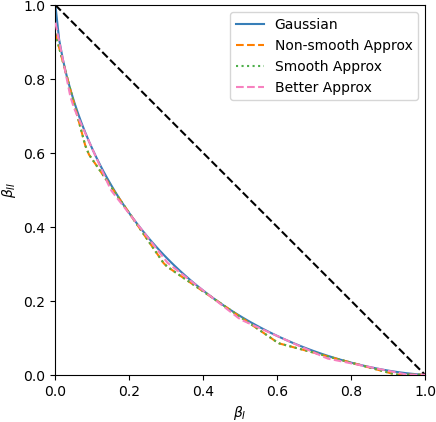
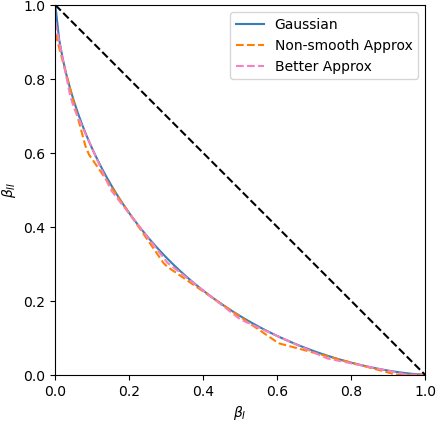
plot for approx from above/below + 2 DP

diff --git a/src/main.py b/src/main.py
@@ -527,25 +527,88 @@ def smooth_vs_nonsmooth_below_2dp_approx_gaussian(mu, title):
         save_to=png(title)
     )
 
+def two_dp_constraints():
+    eps_1 = 1.2
+    delta_1 = 0.0
+    eps_2 = 0.6
+    delta_2 = 0.15
+    f1 = SingleEpsDeltaTradeoff(eps_1, delta_1)
+    f2 = SingleEpsDeltaTradeoff(eps_2, delta_2)
+    title = "two_dp_constraints"
+
+    plot_multiple_functions([f1, f2],
+                                            [
+                                             f"$({eps_1},{delta_1})$-DP",
+                                             f"$({eps_2},{delta_2})$-DP",
+                                             ],
+                            [
+                                "solid",
+                                "solid",
+                            ],
+                            save_to=png(title)
+                            )
+
+def gaussian_n_dp_approx():
+    """
+    Compare n-DP approximations of GDP from below.
+    """
+    mu = 1.
+    n = 2
+    gaussian = GaussianTradeoff(mu)
+    below_approx = multi_dp_approx_below(gaussian, n)
+    above_approx = multi_dp_approx_above(gaussian, n)
+
+    eps_below = below_approx.get_eps_list()
+    delta_below = below_approx.get_delta_list()
+
+    eps_above = above_approx.get_eps_list()
+    delta_above = above_approx.get_delta_list()
+
+    f_below = [SingleEpsDeltaTradeoff(eps,delta) for eps, delta in zip(eps_below, delta_below)]
+    f_above = [SingleEpsDeltaTradeoff(eps, delta) for eps,delta in zip(eps_above, delta_above)]
+
+    f_arr = f_below + f_above + [gaussian]
+    colors = [COLOR_3] * len(f_below) + [COLOR_2] * len(f_above) + [COLOR_1]
+    linestyles = ["dashed"] * len(f_below) + ["dashed"] * len(f_above) + ["solid"]
+    title = f"gaussian_{n}_dp_approx"
+
+
+    plot_multiple_functions(
+        f_arr = f_arr,
+        colors = colors,
+        linestyles = linestyles,
+        save_to=png(title)
+    )
+
+    plot_multiple_functions(
+        f_arr = [gaussian, below_approx, above_approx],
+        labels= ["1-GDP", f"{n}-DP approx below", f"{n}-DP approx above"],
+        colors = [COLOR_1, COLOR_3, COLOR_2],
+        linestyles = ["solid", "dashed", "dashed"],
+        save_to=png(title + "_maxed")
+    )
+
 if __name__ == "__main__":
-    heterogeneous_comparison(eps_1=0.6,eps_2=0.4,x=3,y=2,delta_slack_ls=[0.001], title="heterogeneous_comparison")
-    mixture_example(alpha_1 = 0.5, eps_1 = 1.3, delta_1 = 0.0, eps_2 = 0.5, delta_2 = 0.2, title="mixture_example")
-    gaussian_tradeoff_approx(mu=1, title="gaussian_approx")
-    gaussian_compos_approx(k=20, mu=0.05, title="gaussian_compos_approx")
-    gaussian_compos_approx(k=3, mu=1, title="gaussian_compos_approx_2")
-    gaussian_compos_approx_two_compos(k1=10, k2=3, mu=1, title="gaussian_2_compos")
-    gaussian_tradeoff_and_compos_approx(k=3, mu=1, title="gaussian_tradeoff_and_compos_approx")
-    main_theorem_comparison(eps_1 = 1.2, delta_1 = 0.0, eps_2 = 0.6, delta_2 = 0.2, k = 3, title="theorem_1_comparison")
-    main_theorem_example(eps_1 = 1.2, delta_1 = 0.0, eps_2 = 0.6, delta_2 = 0.2, k_ls = [2, 3, 10, 20],
-                         title="theorem_1_example")
-    main_theorem_example(eps_1 = 0.3, delta_1 = 0.0, eps_2 = 0.15, delta_2 = 0.02, k_ls = [2, 3, 10, 20],
-                         title="theorem_1_example_small_region")
-    main_theorem_comparison_two_ks(eps_1 = 1.2, delta_1 = 0.0, eps_2 = 0.6, delta_2 = 0.2,
-                                   k1=3, k2=10, title="theorem_1_comparison_two_ks")
-    main_theorem_comparison_two_ks(eps_1 = 0.3, delta_1 = 0.0, eps_2 = 0.15, delta_2 = 0.02, k1=3, k2=20,
-                                  title="theorem_1_comparison_two_ks_small_region")
-    gaussian_compos_approx_tradeoff_and_two_compos(k1=3, k2=10, mu=1, title="gaussian_tradeoff_and_2_compos")
-    gaussian_compos_approx_tradeoff_and_two_compos(k1=3, k2=10, mu=0.05, title="gaussian_tradeoff_and_2_compos_small")
-    gaussian_tradeoff_and_compos_approx(mu=0.05, k=3, title="gaussian_tradeoff_and_compos_approx_small_single_reg")
-    smooth_vs_nonsmooth_above_2dp_approx_gaussian(mu=1, title="smooth_vs_nonsmooth_2dp_approx_gaussian_above")
-    smooth_vs_nonsmooth_below_2dp_approx_gaussian(mu=1, title="smooth_vs_nonsmooth_2dp_approx_gaussian_below")
+    # heterogeneous_comparison(eps_1=0.6,eps_2=0.4,x=3,y=2,delta_slack_ls=[0.001], title="heterogeneous_comparison")
+    # mixture_example(alpha_1 = 0.5, eps_1 = 1.3, delta_1 = 0.0, eps_2 = 0.5, delta_2 = 0.2, title="mixture_example")
+    # gaussian_tradeoff_approx(mu=1, title="gaussian_approx")
+    # gaussian_compos_approx(k=20, mu=0.05, title="gaussian_compos_approx")
+    # gaussian_compos_approx(k=3, mu=1, title="gaussian_compos_approx_2")
+    # gaussian_compos_approx_two_compos(k1=10, k2=3, mu=1, title="gaussian_2_compos")
+    # gaussian_tradeoff_and_compos_approx(k=3, mu=1, title="gaussian_tradeoff_and_compos_approx")
+    # main_theorem_comparison(eps_1 = 1.2, delta_1 = 0.0, eps_2 = 0.6, delta_2 = 0.2, k = 3, title="theorem_1_comparison")
+    # main_theorem_example(eps_1 = 1.2, delta_1 = 0.0, eps_2 = 0.6, delta_2 = 0.2, k_ls = [2, 3, 10, 20],
+    #                      title="theorem_1_example")
+    # main_theorem_example(eps_1 = 0.3, delta_1 = 0.0, eps_2 = 0.15, delta_2 = 0.02, k_ls = [2, 3, 10, 20],
+    #                      title="theorem_1_example_small_region")
+    # main_theorem_comparison_two_ks(eps_1 = 1.2, delta_1 = 0.0, eps_2 = 0.6, delta_2 = 0.2,
+    #                                k1=3, k2=10, title="theorem_1_comparison_two_ks")
+    # main_theorem_comparison_two_ks(eps_1 = 0.3, delta_1 = 0.0, eps_2 = 0.15, delta_2 = 0.02, k1=3, k2=20,
+    #                               title="theorem_1_comparison_two_ks_small_region")
+    # gaussian_compos_approx_tradeoff_and_two_compos(k1=3, k2=10, mu=1, title="gaussian_tradeoff_and_2_compos")
+    # gaussian_compos_approx_tradeoff_and_two_compos(k1=3, k2=10, mu=0.05, title="gaussian_tradeoff_and_2_compos_small")
+    # gaussian_tradeoff_and_compos_approx(mu=0.05, k=3, title="gaussian_tradeoff_and_compos_approx_small_single_reg")
+    # smooth_vs_nonsmooth_above_2dp_approx_gaussian(mu=1, title="smooth_vs_nonsmooth_2dp_approx_gaussian_above")
+    # smooth_vs_nonsmooth_below_2dp_approx_gaussian(mu=1., title="smooth_vs_nonsmooth_2dp_approx_gaussian_below")
+    gaussian_n_dp_approx()
+

diff --git a/src/base/utils.py b/src/base/utils.py
@@ -1,3 +1,5 @@
+from breezy.trace import show_error
+
 from base.definitions import *
 from base.tradeoff_function import TradeOffFunction
 from multi_dp_mixture.piecewise_affine import DIAGONAL
@@ -15,14 +17,15 @@ COLORBLIND_FRIENDLY_PALETTE =  \
 
 def plot_multiple_functions(
         f_arr: List[TradeOffFunction],
-        labels: List[str],
+        labels: List[str] = None,
         linestyles: List[str] = None,
         colors: List[str] = None,
         orders: List[int] = None,
         start=0,
         end=1,
         num_points=100,
-        save_to: str = None
+        save_to: str = None,
+        show_legend=True
 ):
     """
     Plots multiple functions on the same graph, providing a visual comparison
@@ -32,7 +35,8 @@ def plot_multiple_functions(
                   a function to be plotted.
     :type f_arr: List[PiecewiseAffine]
     :param labels: A list of labels corresponding to each function in f_arr,
-                   which will be used for the plot's legend.
+                   which will be used for the plot's legend. If not provided,
+                   no legend shown.
     :type labels: List[str]
     :param linestyles: A list of linestyles to be used for each function in f_arr.
     :type linestyles: List[str], optional. Defaults to solid style for all functions.
@@ -51,7 +55,11 @@ def plot_multiple_functions(
     :type save_to: str, optional
     :return: None
     """
-    assert len(f_arr) == len(labels)
+    show_legend = labels is not None
+    assert not show_legend or len(f_arr) == len(labels)
+
+    if not show_legend:
+        labels = [""] * len(f_arr)
 
     if linestyles is None:
         linestyles = ["solid"] * len(f_arr)
@@ -70,12 +78,13 @@ def plot_multiple_functions(
         plt.plot(x, f(x), label=label, linestyle=linestyle, color=color, zorder=order)
 
     plt.plot(x, DIAGONAL(x), "k--")
-    plt.legend()
     ax.set_aspect('equal', adjustable='box')
     ax.set_autoscale_on(False)
     plt.xlabel("$\\beta_I$")
     plt.ylabel("$\\beta_{II}}$")
-    #plt.tight_layout()
+
+    if show_legend:
+        plt.legend()
 
     if save_to is not None:
         plt.savefig(save_to, bbox_inches='tight',pad_inches = 0)
